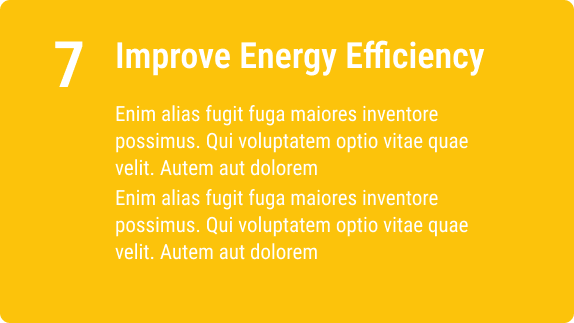
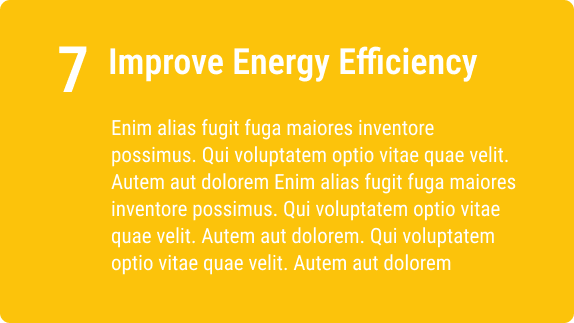
sus dev section & solution hero content chnages

Changed region(s): [[0.1777, 0.3096, 0.9181, 0.8359], [0.1777, 0.1238, 0.8589, 0.2477], [0.0889, 0.1238, 0.1481, 0.2786]]

diff --git a/poweroptimus-website-nextjs/src/app/components/home-main-content/sustainable-dev.tsx b/poweroptimus-website-nextjs/src/app/components/home-main-content/sustainable-dev.tsx
@@ -19,13 +19,13 @@ const SustainableDev: React.FC = () => {
   // Right side images
   const rightImages = [
     "/re-one.png",
-    // "/sus-dev-two.png",
-    // "/sus-dev-three.jpg",
-    // "/sus-dev-four.jpg",
-    // "/sus-dev-five.png",
-    // "/sus-dev-six.png",
-    // "/sus-dev-seven.png",
-    // "/sus-dev-eight.jpg",
+    "/re-two.png",
+    "/re-three.png",
+    "/re-four.png",
+    "/re-five.png",
+    "/re-six.png",
+    "/re-seven.png",
+    "/re-eight.png"
   ];
 
   const [activeIndex, setActiveIndex] = useState(0);
@@ -49,7 +49,7 @@ const SustainableDev: React.FC = () => {
     <div id="hero-section" className="home-container">
       <div className="susHome">
         {/* LEFT */}
-        <div className="home_sectionHeader_left">
+        <div className="sus-home_sectionHeader_left">
           <div className="section-title Header1 TextBlue">Sustainable Development Goals</div>
 
           <div className="goals-grid">
@@ -67,7 +67,7 @@ const SustainableDev: React.FC = () => {
         </div>
 
         {/* RIGHT */}
-        <div className="home_sectionHeader_right">
+        <div className="sus-home_sectionHeader_right">
           <div className="goal-display">
             <img
               src={rightImages[displayIndex]}

diff --git a/poweroptimus-website-nextjs/src/app/components/home-main-content/sustainable-dev.css b/poweroptimus-website-nextjs/src/app/components/home-main-content/sustainable-dev.css
@@ -20,13 +20,15 @@
 }
 
 /* ---------------- LEFT ---------------- */
-.home_sectionHeader_left {
+.sus-home_sectionHeader_left {
   grid-column-start: 2;
-  grid-column-end: 7;
+  /* grid-column-end: 7; */
+  grid-column-end: 8;
   display: flex;
   flex-direction: column;
   row-gap: 15px;
   column-gap: 0px;
+  padding-top: 27px;
 }
 
 .section-title {
@@ -62,7 +64,7 @@
 }
 
 /* ---------------- RIGHT ---------------- */
-.home_sectionHeader_right {
+.sus-home_sectionHeader_right {
   grid-column-start: 8;
   grid-column-end: 14;
   display: flex;
@@ -72,7 +74,8 @@
 
 .goal-display img {
   width: 100%;
-  aspect-ratio: 16 / 9;
+  /* aspect-ratio: 16 / 9; */
+  aspect-ratio: 14 / 9;
   object-fit: cover;
   border-top-left-radius: 6px;
   border-top-right-radius: 6px;
@@ -88,12 +91,12 @@
     column-gap: 5px;
   }
 
-  .home_sectionHeader_left {
+  .sus-home_sectionHeader_left {
     grid-column-start: 2;
     grid-column-end: 14;
   }
 
-  .home_sectionHeader_right {
+  .sus-home_sectionHeader_right {
     grid-column-start: 2;
     grid-column-end: 14;
   }

diff --git a/poweroptimus-website-nextjs/src/app/solution/page.tsx b/poweroptimus-website-nextjs/src/app/solution/page.tsx
@@ -17,7 +17,7 @@ const page = () => {
     <>
     {/* <Hero/> */}
     {/* <HeroTwo/> */}
-    <SolutionHero headerText={'PowerOptimus – A Smart Solution for Energy Management and Environmental Monitoring'} bodyText={'PowerOptimus is an intelligent, scalable building management system (BMS) designed to support industries and commercial buildings in driving efficiency, reducing operational costs, and aligning with sustainability goals through robust energy monitoring and management systems.'}/>
+    <SolutionHero headerText={'PowerOptimus – A Smart Solution for Energy Management and Environmental Monitoring'} bodyText={'PowerOptimus is an intelligent, scalable system designed to support industries and commercial buildings in driving efficiency, reducing operational costs, and aligning with sustainability goals through robust energy monitoring and management systems.'}/>
     {/* features */}
     <FeatureSection/>
 

diff --git a/poweroptimus-website-nextjs/src/app/components/solution/architecture-diagram.tsx b/poweroptimus-website-nextjs/src/app/components/solution/architecture-diagram.tsx
@@ -16,7 +16,7 @@ const ArchitectureDiagram = () => {
       {/* <h2 className="process-title Header2">Architecture-section</h2> */}
       <div className="diagram-placeholder Header1sec marTop">
 
-        <img src="./system-arch.png" alt="System Architecture" />
+        <img src="/system-arch-two.jpg" alt="System Architecture" />
 
       </div>
     </section>
